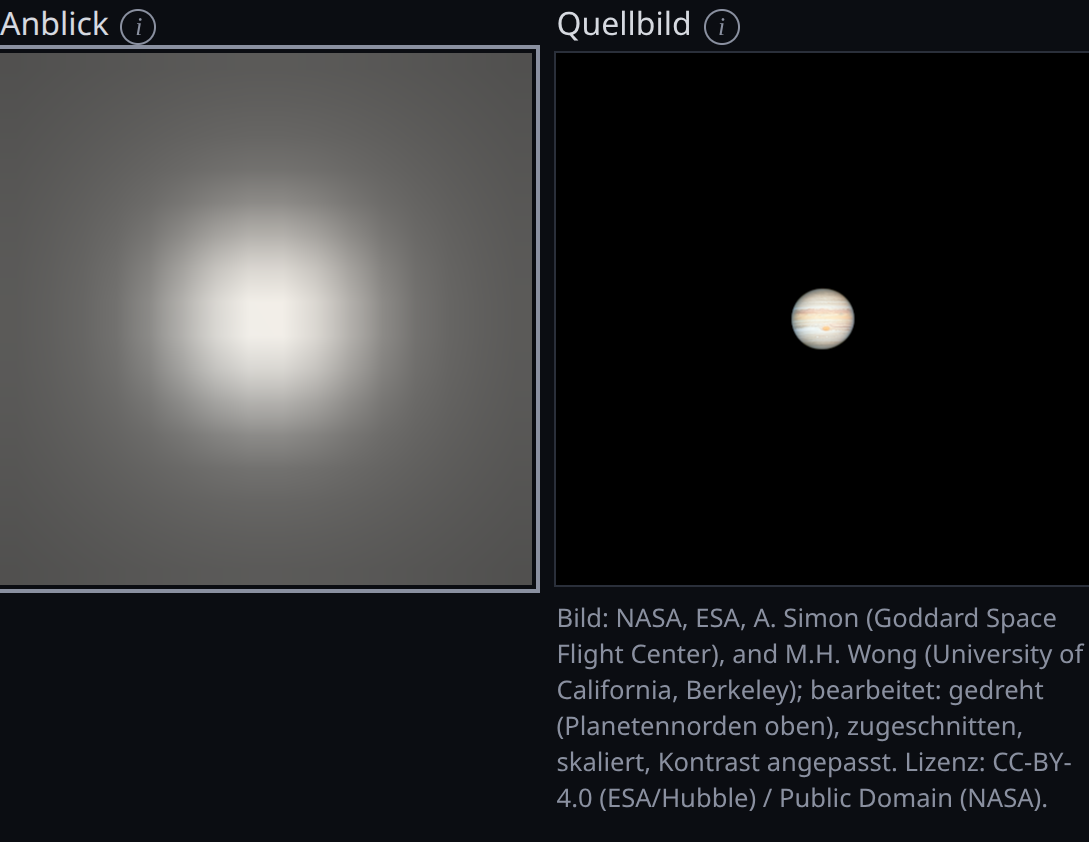
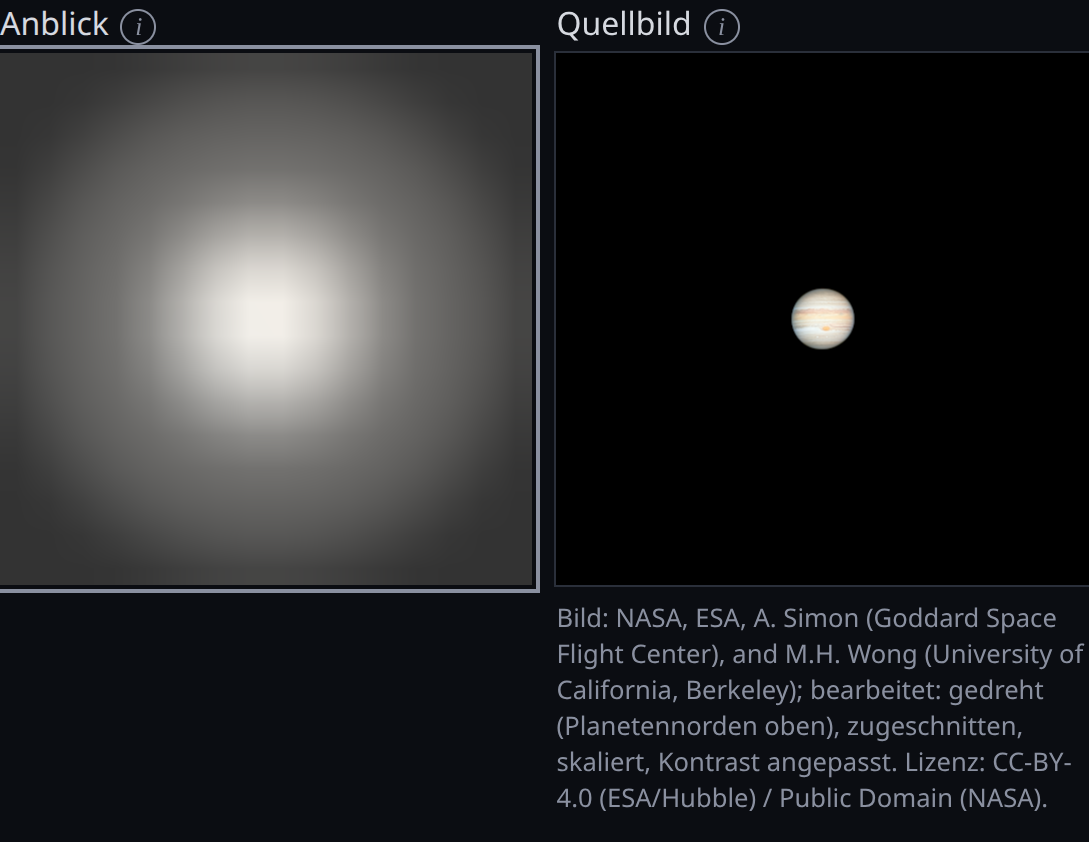
Validierung: T6b, T12b bis T12d, T5b, T6c neu, Messung in Abschnitt 13 (Issue #135)

diff --git a/docs/validierung.md b/docs/validierung.md
@@ -342,4 +342,16 @@ Trabanten (hellstes Pixel ausserhalb der Scheibe): T1 119 (111), T4a 147 (138), 
 
 **T1 bis T6 mit den neuen Konstanten** (Sichtpruefung von T4a, T4c, T12a, T12b; die uebrigen Bilder sind nur heller oder dunkler, die Tabellen-Tests aus Abschnitt 3 haengen nicht an den Konstanten): T4a und T4c zeigen Baender, GRF in seiner Farbe und in T4c die weissen Ovale; in T4a sind die hellen Zonen teils auf Weiss begrenzt (etwa ein Achtel der Scheibe, ADR-0004 erwartete ein Fuenftel). Der Unterschied T4c gegen T4d (mehr Detail bei 300 mm) bleibt deutlich. Urteile wie in Abschnitt 2, alle **erfuellt**.
 
-**Offen, eigene Issues:** das helle Quadrat (etwa 28 x 28 Anzeigepixel, Kante 90 gegen Himmel 51) um unaufgeloeste Planeten mit blossem Auge in T6b und T12b bis T12d (#135); M32 mit blossem Auge als sichtbarer Fleck (#136). Beides haengt nicht an den Konstanten (`helligkeit-v2.md` 1.1, Nebenbefunde).
+**Offen, eigene Issues:** das helle Quadrat (etwa 28 x 28 Anzeigepixel, Kante 90 gegen Himmel 51) um unaufgeloeste Planeten mit blossem Auge in T6b und T12b bis T12d (#135, behoben, siehe unten); M32 mit blossem Auge als sichtbarer Fleck (#136). Beides haengt nicht an den Konstanten (`helligkeit-v2.md` 1.1, Nebenbefunde).
+
+**Quadrat um unaufgeloeste Planeten (Issue #135).** Ursache und Abhilfe in `physik.md` 28: der Mischanteil nimmt das Objekt, gefaltet mit dem Kern mal $w^{1/n}$. Messung an der Uebersicht wie oben (Mittel der Kanaele, Himmel 51), vorher = main 0c6fd21, nachher = dieser Stand, beide SwiftShader:
+
+| Fall | Scheitel | Rand des Quadrats (Ring 13 bis 14 px) | Ecken des Quadrats (11 bis 13 px auf beiden Achsen) | Halo ueber Himmel + 2 |
+|---|---|---|---|---|
+| T6b = T12b Jupiter | 236 / 236 | 84 / 62 | 82 / 52 | 32 x 31 / 28 x 28 px |
+| T12c Mars 14'' | 212 / 212 | 76 / 54 | 78 / 51 | 28 x 28 / 26 x 26 px |
+| T12d Saturn 20'' | 175 / 175 | 71 / 57 | 69 / 51 | 30 x 28 / 28 x 24 px |
+
+Die Kernwerte sind unveraendert (innen ist der Halokern bitgleich mit dem Kern). In den Ecken, wo vorher nur das Quadrat Licht hatte, liegt das Bild hoechstens 1 Kode ueber dem Himmel; der runde Halo laeuft auf der Achse ueber drei bis vier Pixel in Schritten von 9, 7, 3 und 1 Kodes auf den Himmel aus (T6b: 71, 62, 55, 52, 51). Am Rand der Achse liegt er noch im Ring des alten Quadrats, ist dort aber rund und ohne Stufe (Sichtpruefung der Uebersichten und Zooms von T6b, T12b bis T12d: kein Quadrat). **Erfuellt.**
+
+Geaendert sind ausserdem T5b (Mars 6'' bei 120-fach, $g$ = 0,0147) und T6c (Jupiter im 10x50): beide liegen im Fall unaufgeloest, der schwache Mischanteil im aeusseren Drittel des Kerns faellt weg. Alle geaenderten Pixel werden dunkler, um hoechstens 2 (T5b) bzw. 1 Kode (T6c) in der Uebersicht und 2 bzw. 3 Kodes im Zoom, ueberwiegend im schwachen Halo (Median der alten Helligkeit an den geaenderten Pixeln im Zoom 27 bzw. 74); Scheitel 163 und 212 unveraendert. Alle uebrigen Bilder (T1 bis T5a, T6a, P1 bis P3, T12a) sind bytegleich. Sichtpruefung T1 und T4a: unveraendert.
